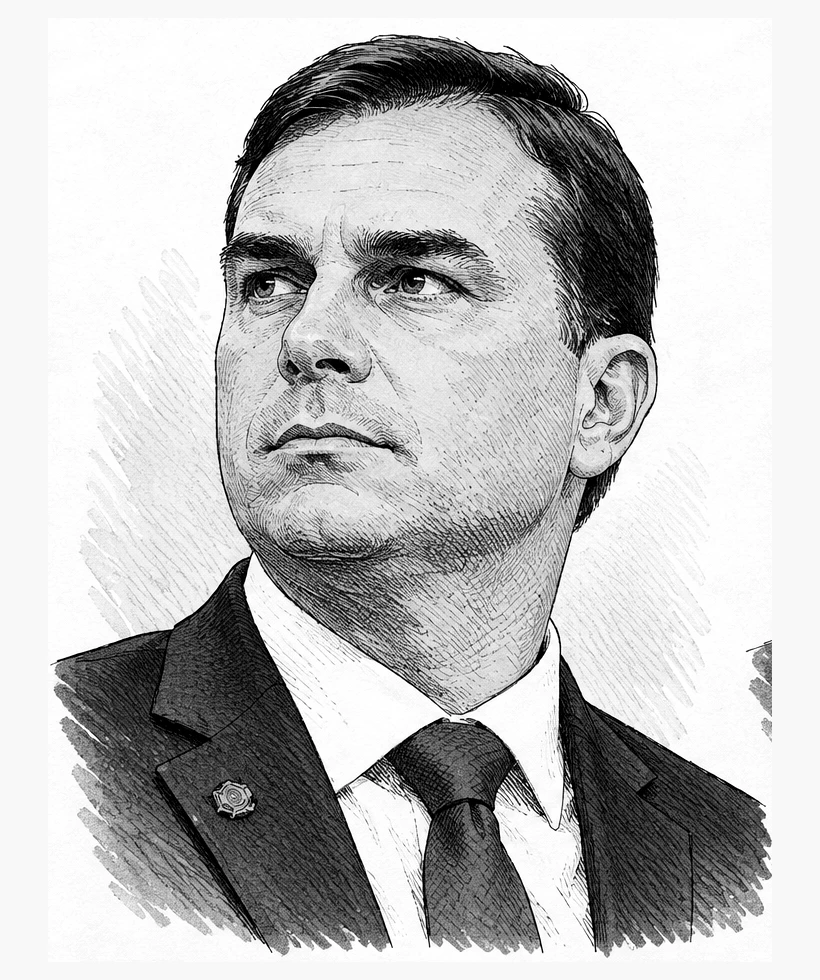
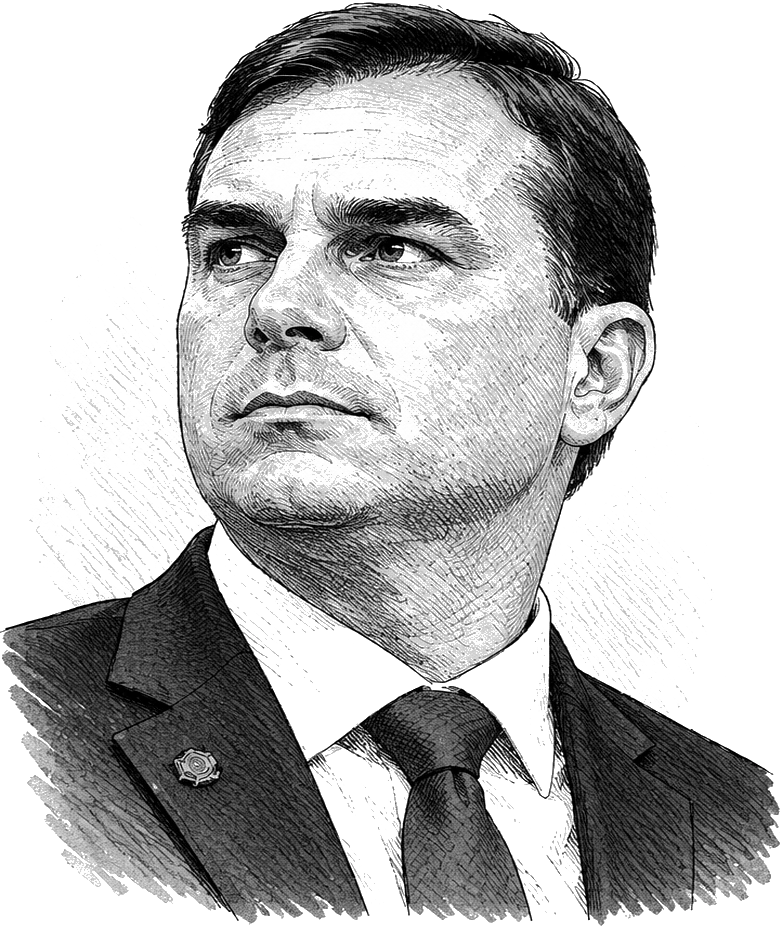
Use new transparent portraits
Swap in the transparent-background portraits (782x926), drop the brightness
workaround that hid the old image frames, and erase a stray pen-shading
fragment at the right edge of the right-hand portrait.

diff --git a/election-odds-site/site/index.template.html b/election-odds-site/site/index.template.html
@@ -27,7 +27,7 @@
 
       <section class="stage" aria-live="polite">
         <article class="candidate" id="lula">
-          <figure><img src="img/lula.webp" alt="Retrato em desenho a tinta de Lula" width="820" height="980"></figure>
+          <figure><img src="img/lula.webp" alt="Retrato em desenho a tinta de Lula" width="782" height="926"></figure>
           <h2>Luiz Inácio Lula da Silva</h2>
           <p class="party">PT</p>
           <p class="label" data-i18n="firstRound"></p>
@@ -45,7 +45,7 @@
         </article>
 
         <article class="candidate" id="flavio">
-          <figure><img src="img/flavio.webp" alt="Retrato em desenho a tinta de Flávio Bolsonaro" width="820" height="980"></figure>
+          <figure><img src="img/flavio.webp" alt="Retrato em desenho a tinta de Flávio Bolsonaro" width="782" height="926"></figure>
           <h2>Flávio Bolsonaro</h2>
           <p class="party">PL</p>
           <p class="label" data-i18n="firstRound"></p>

diff --git a/election-odds-site/site/style.css b/election-odds-site/site/style.css
@@ -85,9 +85,7 @@ figure img {
   display: block;
   width: 100%;
   height: auto;
-  /* the drawings sit on white: lifting the near-white frame to pure white and multiplying
-     lets the paper show through without a visible box */
-  filter: brightness(1.07);
+  /* transparent cut-outs; multiply also lets the paper tint the drawings' white areas */
   mix-blend-mode: multiply;
 }
 
